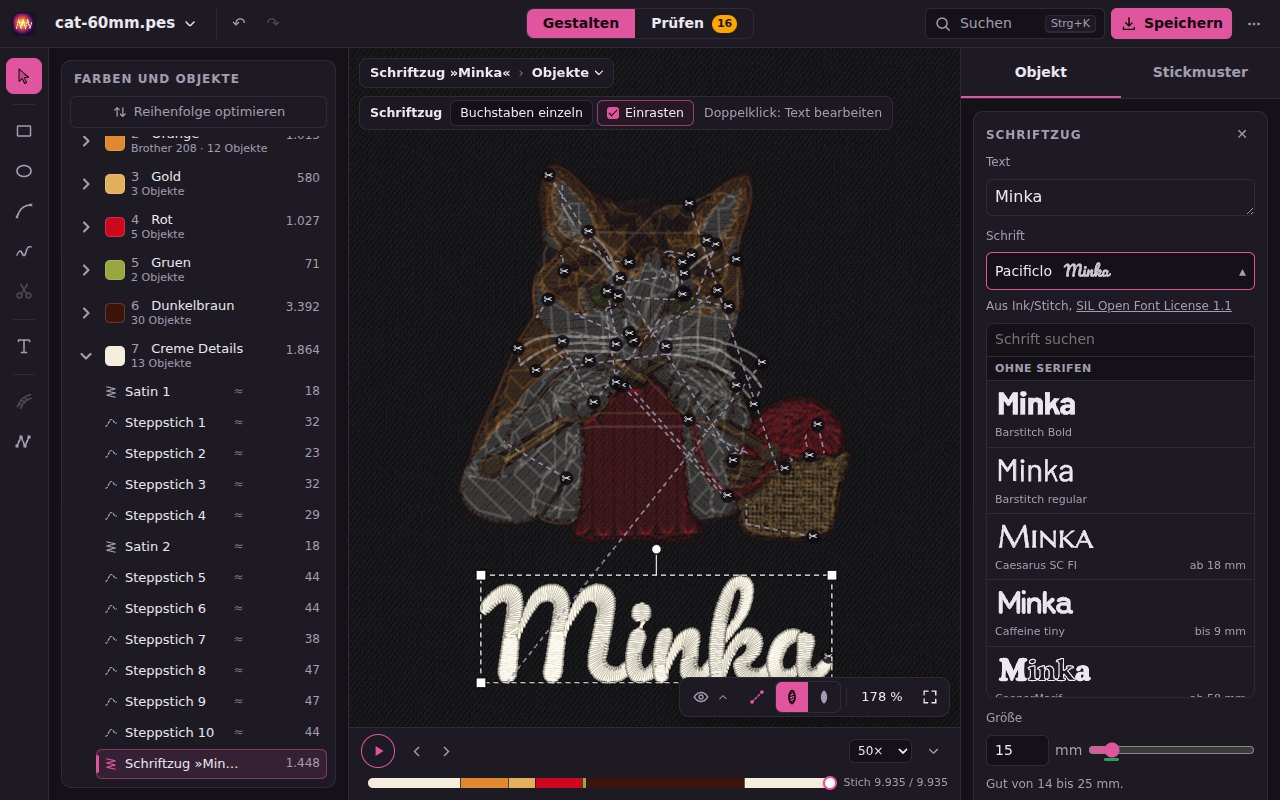
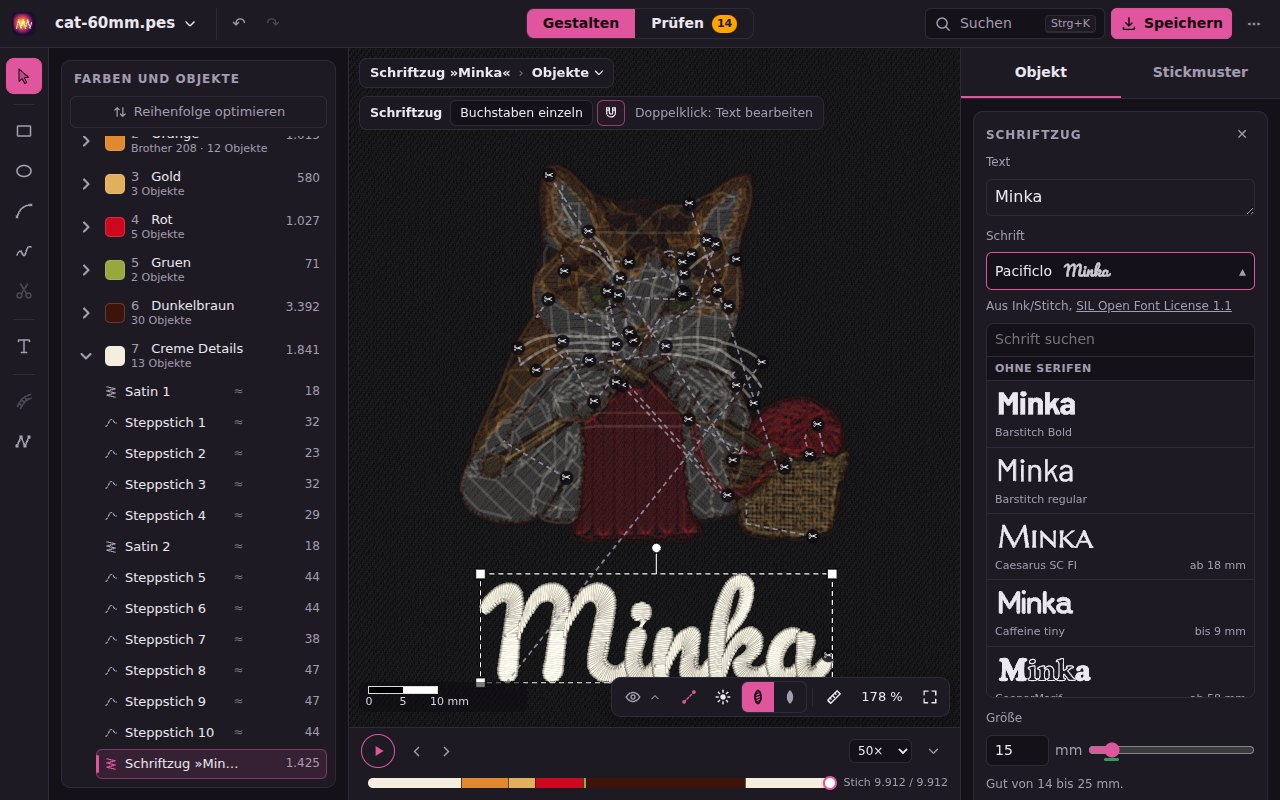
Guide: pictures after XXX/SEW, the thread and font fixes (#269)
* Guide: start page and Save menu with XXX and SEW

The start page now lists XXX and SEW among the file types and shows the
brush character as a further example; the Save menu offers XXX. Both
screenshots are retaken in German and English, and the Save picture
carries its real size so the page does not shift while it loads.

Claude-Session: https://claude.ai/code/session_01379gitMZ3UzT9w36uwz6PC

* Guide: image assistant and lettering after the thread and font fixes

The image assistant chooses Brother threads for all colors together, so
the guide says so instead of "the nearest thread"; its third-step picture
and the lettering picture are retaken after the full pull compensation of
the fonts. The lettering picture also shows the snap button as it is now.

The screenshot script steps forward twice in the image assistant, because
a loaded example now stays in step 1 where it can be cropped.

Claude-Session: https://claude.ai/code/session_01379gitMZ3UzT9w36uwz6PC

---------

Changed region(s): [[0.375, 0.7188, 0.6562, 0.9062], [0.4688, 0.125, 0.6875, 0.1562], [0.2812, 0.8438, 0.3438, 0.875]]

diff --git a/docs.html b/docs.html
@@ -777,7 +777,7 @@
             </figure>
           </dd>
           <dt>2. Farben und Flächen</dt>
-          <dd>Das Bild wird auf wenige Garnfarben reduziert (<i>Höchstens Farben</i>): Ähnliche Farben werden zusammengelegt, kleine auffällige wie Augen bleiben. <i>Vereinfachen</i> glättet Fotos zu Flächen und erhält dabei die Kanten; bei Fotos schaltet es sich von selbst ein. Flächen unter <i>Kleinste Fläche</i> gehen in der Nachbarfläche auf, dünne Säume der Kantenglättung verschwinden, und <i>Hintergrund weglassen</i> lässt den Rand frei. Mit <i>Brother-Garnfarben</i> wird jede Farbe zum nächstliegenden Garn der Palette. In der Liste <i>Farben</i> lässt das Häkchen eine Farbe weg, das Farbfeld wählt ein anderes Garn und <i>→</i> legt sie mit einer anderen zusammen; ein ≠ warnt, dass kein Garn nah an der Bildfarbe liegt. Mit dem <i>Pinsel</i> (<i>Malen</i>, <i>Radieren</i>) färbst du Flächen von Hand um oder nimmst heraus, was nicht gestickt werden soll. Die Bühne zeigt dabei <i>Original</i>, <i>Vorbereitet</i> (das Bild, wie es gestickt wird) oder <i>Stiche</i>.</dd>
+          <dd>Das Bild wird auf wenige Garnfarben reduziert (<i>Höchstens Farben</i>): Ähnliche Farben werden zusammengelegt, kleine auffällige wie Augen bleiben. <i>Vereinfachen</i> glättet Fotos zu Flächen und erhält dabei die Kanten; bei Fotos schaltet es sich von selbst ein. Flächen unter <i>Kleinste Fläche</i> gehen in der Nachbarfläche auf, dünne Säume der Kantenglättung verschwinden, und <i>Hintergrund weglassen</i> lässt den Rand frei. Mit <i>Brother-Garnfarben</i> bekommt jede Farbe ein Garn der Palette; die Garne werden für alle Farben zusammen gewählt, damit zwei unterscheidbare Bildfarben nicht dasselbe Garn bekommen, nur Farben, die sich kaum unterscheiden lassen, teilen eines. In der Liste <i>Farben</i> lässt das Häkchen eine Farbe weg, das Farbfeld wählt ein anderes Garn und <i>→</i> legt sie mit einer anderen zusammen; ein ≠ warnt, dass kein Garn nah an der Bildfarbe liegt. Mit dem <i>Pinsel</i> (<i>Malen</i>, <i>Radieren</i>) färbst du Flächen von Hand um oder nimmst heraus, was nicht gestickt werden soll. Die Bühne zeigt dabei <i>Original</i>, <i>Vorbereitet</i> (das Bild, wie es gestickt wird) oder <i>Stiche</i>.</dd>
           <dt>3. Stiche und Ergebnis</dt>
           <dd>Der <i>Stil</i> bestimmt, wie die Flächen gestickt werden. <i>Flach</i> (Standard) stickt jede Fläche mit geraden Reihen in einem Winkel, ruhig und gleichmäßig wie ein Logo. Der gewählte Stil zeigt neben seinem Namen einen kleinen Ring, bis die Stiche fertig sind; Smart braucht dafür ein paar Sekunden, und wer danach die Technik eines Bereichs umstellt, wartet nur auf diesen Bereich. <i>Dynamisch</i> lässt die Füllreihen dem Bild folgen, wie Fell, Haare oder Striche, in einfarbigen Flächen entlang der Form; wo sich die Richtung in einer Fläche ändert, biegen sich die Reihen. <i>Smart</i> gibt jedem Bereich die passende Technik: ruhige Flächen gerade Reihen, kleine runde Flächen Satin quer, Flächen mit Fell oder Haar Reihen, die dem Bild folgen, Striche Satinsäulen, und Formen wie ein Stern, ein Blatt, ein Tropfen, ein Rahmen oder ein Blockbuchstabe <i>Satin in Abschnitten</i>: zerlegt, wie man es beim Punchen von Hand tut, Zacken von der Basis zur Spitze, Rahmen auf Gehrung an den Ecken, Blätter längs ihrer Ader, mit Satin bis zur <i>Satin bis Breite</i>. Die Technik lässt sich auch für Striche und Linien wählen, die sich verzweigen oder schließen. Die Liste <i>Bereiche</i> zeigt jeden Bereich mit seinem Buchstaben im Bild und seiner Technik; dort stellst du eine Zeile um, und <i>Smart</i> nimmt wieder, was Smart wählt. <i>Stoff</i> und <i>Garn</i> sind das Material, nach dem sich Abstand und Zugausgleich richten; unter <i>Feinheiten</i> liegen eigene Werte dafür, <i>Satin bis Breite</i> und die <i>Max. Abweichung</i>. Jede Fläche bekommt den Stich, der zu ihrer Form passt: breite Flächen Tatami-Füllstich mit Unterlage, schmale Striche Satinsäulen, Linien unter 1 mm Steppstich. Gestickt wird die größte Farbe zuerst, aneinanderstoßende Objekte überlappen 0,2 mm, lange Sprünge werden mit Vernähstichen geschnitten.</dd>
           <dt>Ergebnis</dt>
@@ -890,7 +890,7 @@
           <li><b>Zurück zum Original</b> verwirft alle Änderungen an einem geladenen Stickmuster; × im Stickmuster-Menü entfernt es aus dem Browser.</li>
         </ul>
         <figure>
-          <img src="/guide/save-de.jpg" width="291" height="440" loading="lazy" alt="Das Menü Speichern: Stickrahmen, Vor dem Sticken, die Formate für die Maschine, Dateiname, Als Projekt speichern, Als Bild, Farbliste und Stickblatt drucken" />
+          <img src="/guide/save-de.jpg" width="336" height="736" loading="lazy" alt="Das Menü Speichern: Stickrahmen, Vor dem Sticken, die Formate für die Maschine, Dateiname, Als Projekt speichern, Als Bild, Farbliste und Stickblatt drucken" />
           <figcaption>Das Menü <i>Speichern</i>: Stickrahmen und Vlies, das Format für die Maschine, darunter das Projekt, das Bild und die Drucke.</figcaption>
         </figure>
 
@@ -1692,7 +1692,7 @@
             </figure>
           </dd>
           <dt>2. Colors and areas</dt>
-          <dd>The picture is reduced to a few thread colors (<i>Most colors</i>): similar colors are merged, small conspicuous ones like eyes stay. <i>Simplify</i> smooths photos into flat areas while keeping the edges; for photos it switches on by itself. Areas under <i>Smallest area</i> merge into their neighbor, thin anti-aliasing seams vanish, and <i>Leave out background</i> keeps the edge free. With <i>Brother thread colors</i> every color becomes the nearest thread of the palette. In the <i>Colors</i> list the tick leaves a color out, the color field picks another thread, and <i>→</i> merges it into another; a ≠ warns that no thread is close to the picture's color. With the <i>brush</i> (<i>Paint</i>, <i>Erase</i>) you recolor areas by hand or take out what should not be sewn. The stage meanwhile shows <i>Original</i>, <i>Prepared</i> (the picture as it will be sewn) or <i>Stitches</i>.</dd>
+          <dd>The picture is reduced to a few thread colors (<i>Most colors</i>): similar colors are merged, small conspicuous ones like eyes stay. <i>Simplify</i> smooths photos into flat areas while keeping the edges; for photos it switches on by itself. Areas under <i>Smallest area</i> merge into their neighbor, thin anti-aliasing seams vanish, and <i>Leave out background</i> keeps the edge free. With <i>Brother thread colors</i> every color gets a thread of the palette; the threads are chosen for all colors together, so two picture colors you can tell apart never get the same thread, and only colors too close to tell apart share one. In the <i>Colors</i> list the tick leaves a color out, the color field picks another thread, and <i>→</i> merges it into another; a ≠ warns that no thread is close to the picture's color. With the <i>brush</i> (<i>Paint</i>, <i>Erase</i>) you recolor areas by hand or take out what should not be sewn. The stage meanwhile shows <i>Original</i>, <i>Prepared</i> (the picture as it will be sewn) or <i>Stitches</i>.</dd>
           <dt>3. Stitches and result</dt>
           <dd>The <i>Style</i> decides how the areas are sewn. <i>Flat</i> (default) sews every area with straight rows at one angle, calm and even like a logo. The chosen style shows a small ring beside its name until the stitches are ready; Smart takes a few seconds for that, and changing the technique of one area afterwards waits only for that area. <i>Dynamic</i> lets the fill rows follow the picture, like fur, hair or strokes, in plain areas along the shape; where the direction changes within an area, the rows curve. <i>Smart</i> gives every area the technique that suits it: calm areas straight rows, small round areas satin across, areas with fur or hair rows that follow the picture, strokes satin columns, and shapes such as a star, a leaf, a drop, a frame or a block letter <i>Satin in sections</i>: cut the way a digitizer cuts them by hand, spikes from the base to the tip, frames on the miter at their corners, leaves along their vein, with satin up to <i>Satin up to width</i>. The technique can also be chosen for strokes and lines that branch or close. The <i>Areas</i> list shows every area with its letter in the picture and its technique; there you change a row, and <i>Smart</i> goes back to what Smart chooses. <i>Fabric</i> and <i>Thread</i> are the material that spacing and pull compensation follow; under <i>Fine tuning</i> are own values for them, <i>Satin up to width</i> and the <i>Max. deviation</i>. Every area gets the stitch that fits its shape: wide areas tatami fill with underlay, narrow strokes satin columns, lines under 1 mm running stitch. The largest color is sewn first, touching objects overlap by 0.2 mm, long jumps are trimmed with tie stitches.</dd>
           <dt>Result</dt>
@@ -1805,7 +1805,7 @@
           <li><b>Back to the original</b> drops all changes to a loaded design; × in the Designs menu removes it from the browser.</li>
         </ul>
         <figure>
-          <img src="/guide/save-en.jpg" width="291" height="440" loading="lazy" alt="The Save menu: hoop, Before stitching, the formats for the machine, file name, Save as project, As picture, print color list and stitch sheet" />
+          <img src="/guide/save-en.jpg" width="336" height="736" loading="lazy" alt="The Save menu: hoop, Before stitching, the formats for the machine, file name, Save as project, As picture, print color list and stitch sheet" />
           <figcaption>The <i>Save</i> menu: hoop and stabilizer, the format for the machine, below it the project, the picture and the printouts.</figcaption>
         </figure>
 
